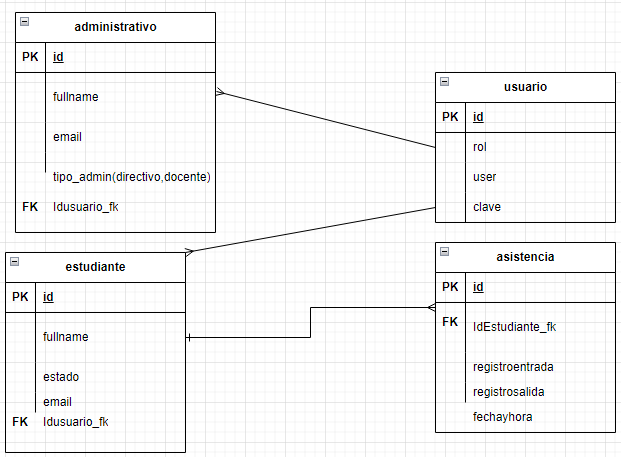
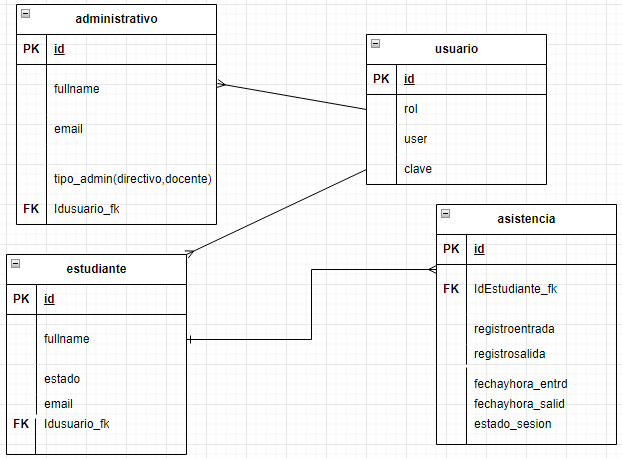
actualizo campos basedatos asistencia

diff --git a/model/asistencia.py b/model/asistencia.py
@@ -9,12 +9,14 @@ class Asistencia(bd.Model):
     registrosalida=bd.Column(bd.Integer)
     fechayhora_entrd=bd.Column(bd.DateTime)
     fechayhora_sali=bd.Column(bd.DateTime)
+    estado_sesion = bd.Column(bd.String(2))
     
-    def __init__(self,registrodentrada,registrosalida, fechayhora_entrd, fechayhora_salid):
+    def __init__(self,registrodentrada,registrosalida, fechayhora_entrd, fechayhora_salid,estado_sesion):
         self.registrodentrada = registrodentrada
         self.registrosalida = registrosalida
         self.fechayhora_entrd = fechayhora_entrd
         self.fechayhora_sali = fechayhora_salid
+        self.estado_sesion = estado_sesion
         
     
    
